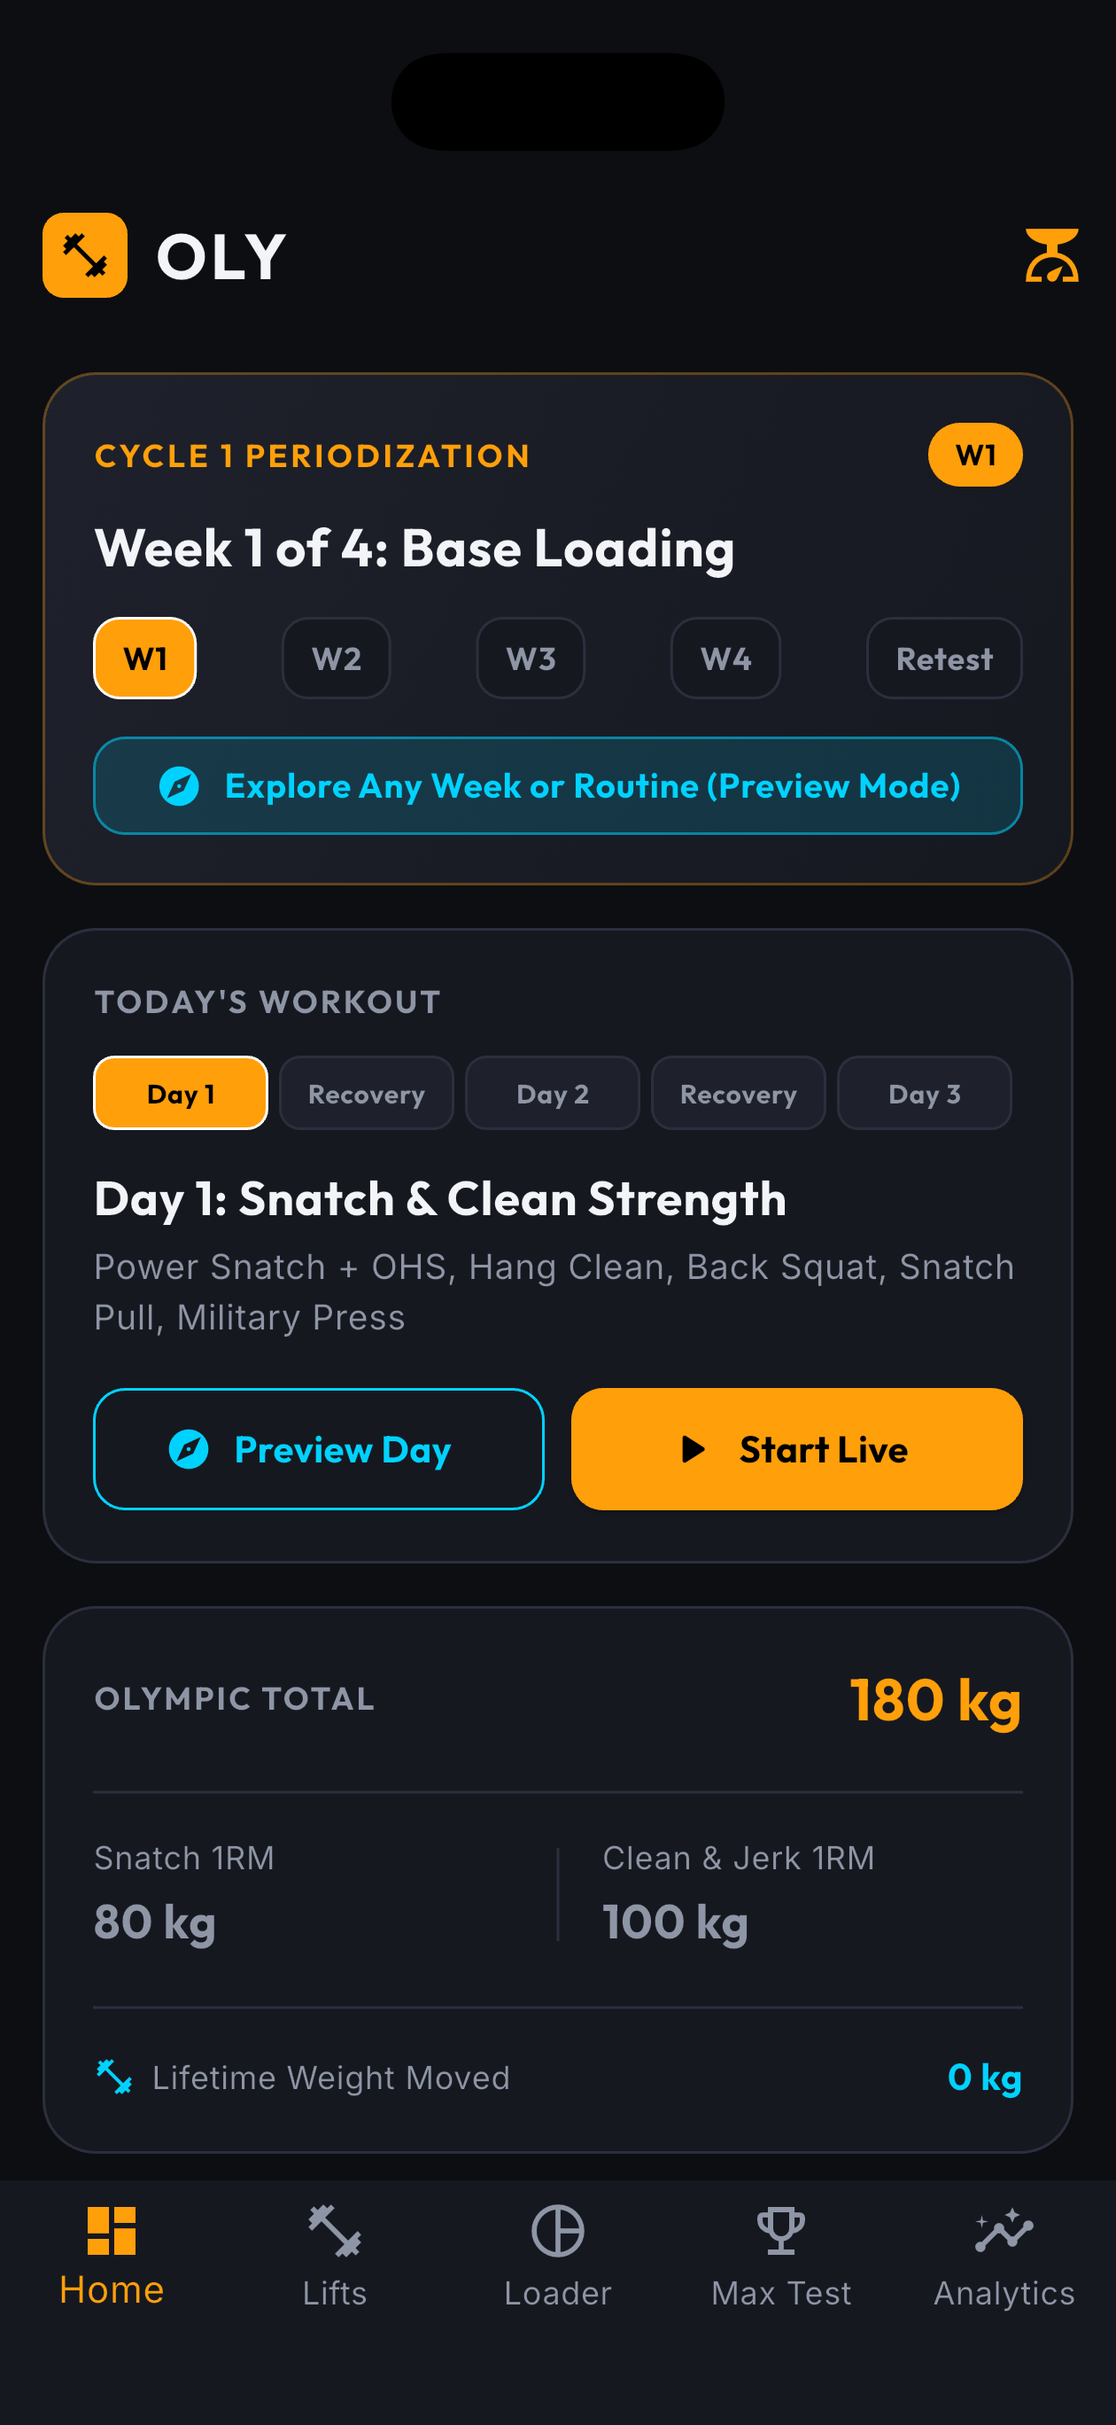
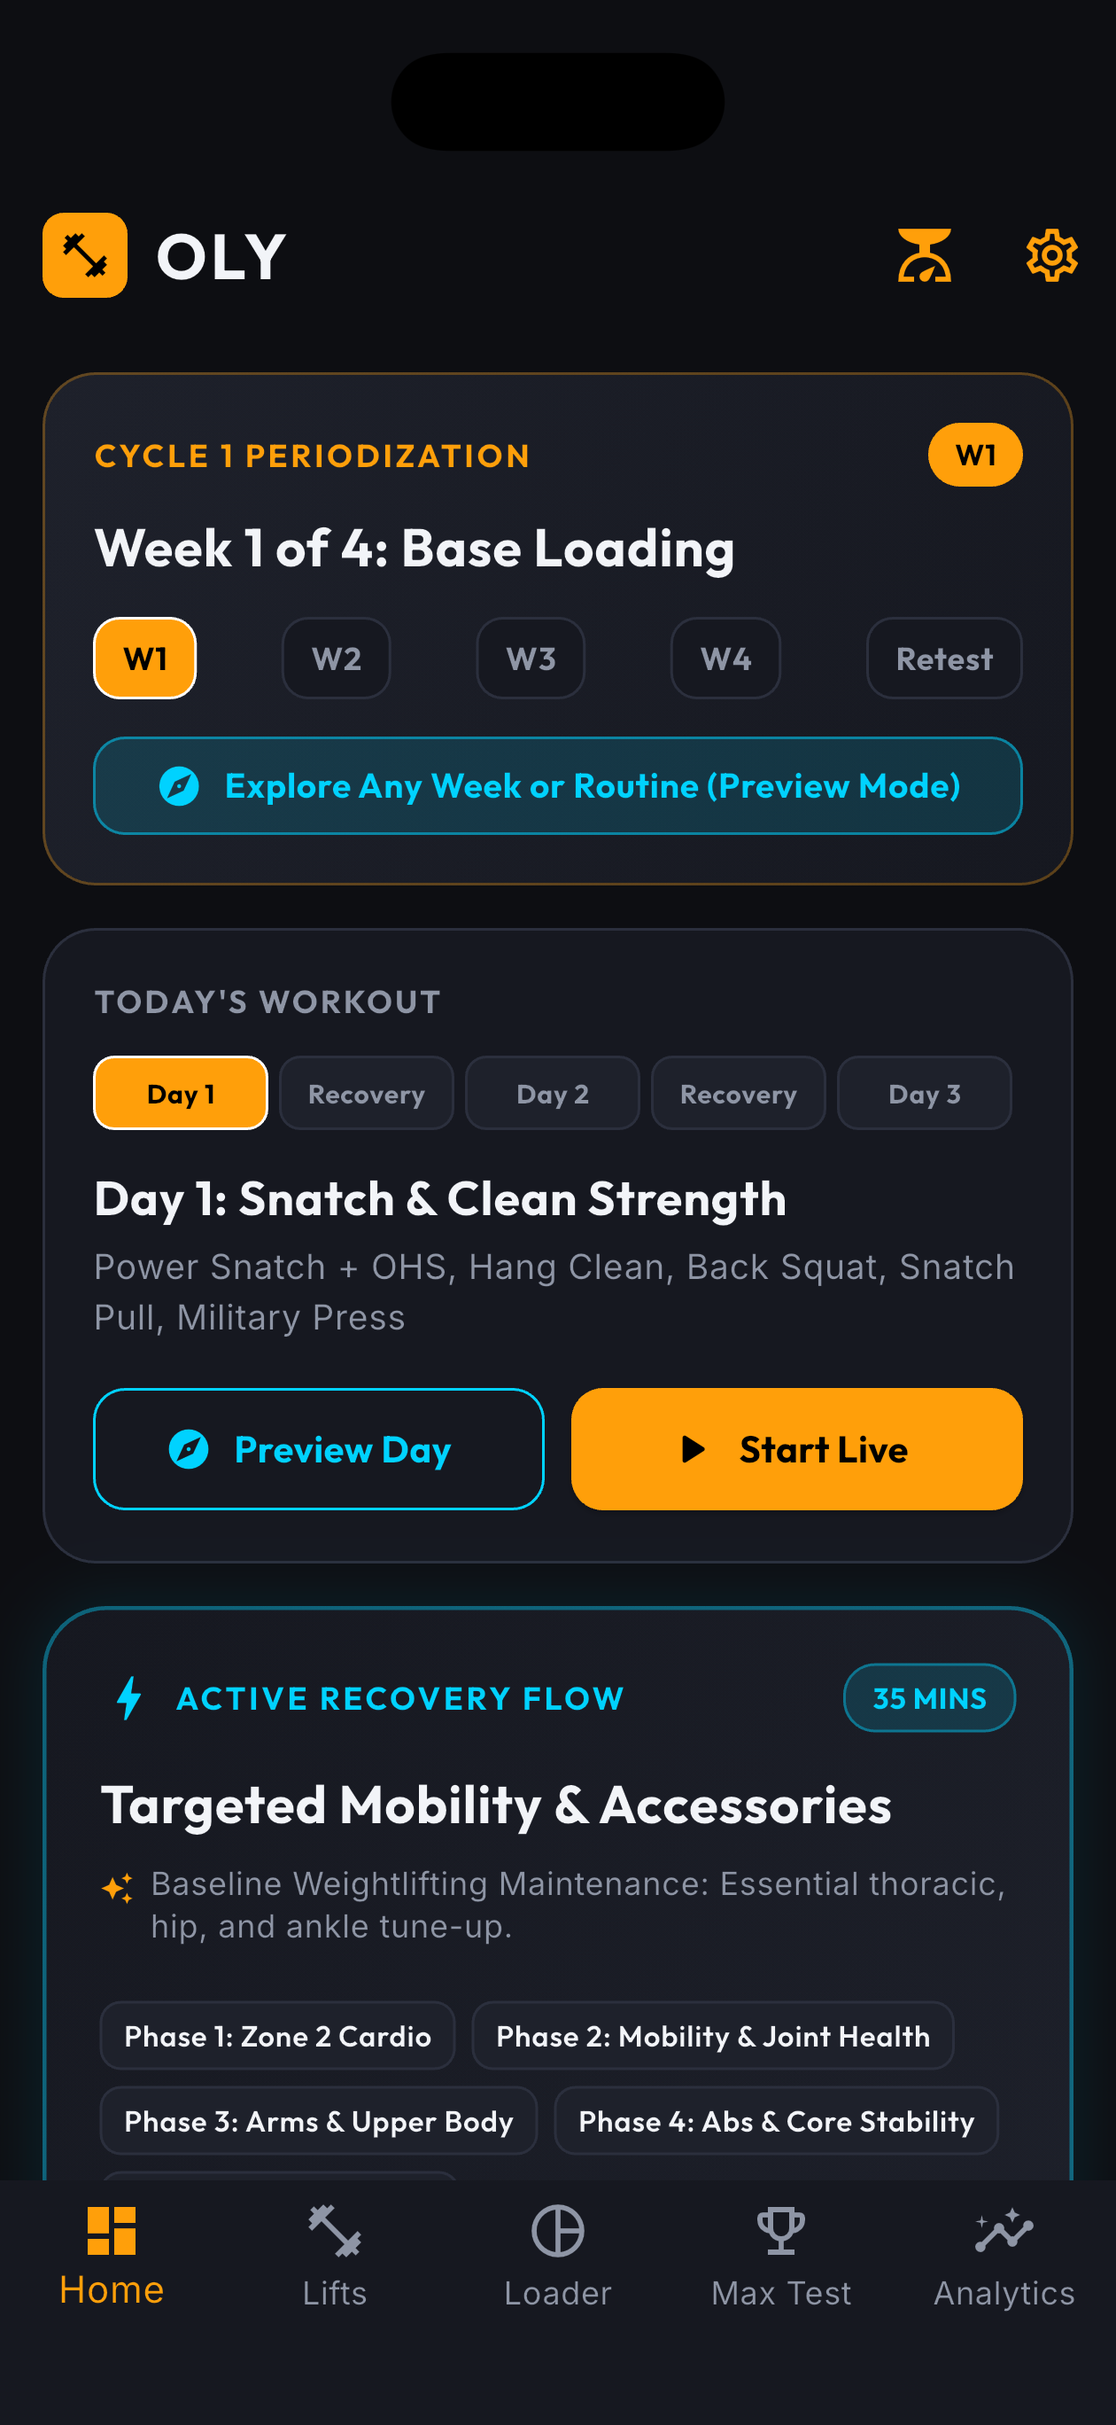
docs: update README with fresh simulator screenshots and accurate documentation

diff --git a/lib/main.dart b/lib/main.dart
@@ -7,13 +7,16 @@ import 'providers/settings_provider.dart';
 import 'services/notification_service.dart';
 import 'services/storage_service.dart';
 import 'theme/app_theme.dart';
+import 'models/program_model.dart';
+import 'services/recovery_engine_service.dart';
 import 'views/analytics_screen.dart';
 import 'views/dashboard_screen.dart';
 import 'views/lifts_screen.dart';
 import 'views/max_test_screen.dart';
 import 'views/plate_calculator_screen.dart';
-
+import 'views/recovery_session_screen.dart';
 import 'views/splash_screen.dart';
+import 'views/workout_session_screen.dart';
 
 void main() async {
   WidgetsFlutterBinding.ensureInitialized();
@@ -50,10 +53,27 @@ class OlyApp extends StatelessWidget {
         );
       },
       home: SplashScreen(
-        child: MainNavigationContainer(
-          initialIndex: const int.fromEnvironment('TAB', defaultValue: 0),
-        ),
+        child: _buildHomeScreen(),
       ),
+    );
+  }
+
+  Widget _buildHomeScreen() {
+    const screen = String.fromEnvironment('SCREEN');
+    if (screen == 'workout') {
+      return WorkoutSessionScreen(
+        dayTemplate: ProgramCycle.getBuiltInProgram().first,
+      );
+    } else if (screen == 'recovery') {
+      return RecoverySessionScreen(
+        routine: RecoveryEngineService.generateRoutine(
+          ratioAnalyses: [],
+          lastSession: null,
+        ),
+      );
+    }
+    return const MainNavigationContainer(
+      initialIndex: int.fromEnvironment('TAB', defaultValue: 0),
     );
   }
 }

diff --git a/README.md b/README.md
@@ -1,97 +1,175 @@
 # OLY — Olympic Weightlifting & Periodization Tracker
 
 <p align="center">
-  <img src="assets/icon/icon.jpg" width="140" alt="OLY App Icon" style="border-radius: 28px;" />
+  <img src="assets/icon/icon.jpg" width="140" alt="OLY App Icon" style="border-radius: 28px; box-shadow: 0 10px 30px rgba(0,0,0,0.5);" />
 </p>
 
 <p align="center">
-  <b>A modern, dark-mode Flutter application designed for Olympic weightlifting athletes, coaches, and strength enthusiasts.</b>
+  <b>A modern, high-contrast Flutter application designed for Olympic weightlifting athletes, coaches, and strength enthusiasts.</b>
+</p>
+
+<p align="center">
+  <img src="https://img.shields.io/badge/Flutter-3.x-02569B?logo=flutter&logoColor=white" alt="Flutter" />
+  <img src="https://img.shields.io/badge/Dart-3.x-0175C2?logo=dart&logoColor=white" alt="Dart" />
+  <img src="https://img.shields.io/badge/Platform-iOS%20%7C%20Android-4E8EF7" alt="Platform" />
+  <img src="https://img.shields.io/badge/Theme-Dark%20Obsidian-121214" alt="Theme" />
+  <img src="https://img.shields.io/badge/License-Proprietary-FF9E1B" alt="License" />
 </p>
 
 ---
 
 ## 🌟 Overview
 
-**OLY** is built specifically for Snatch, Clean & Jerk, and Squat strength progression. It combines dynamic periodization programming (`@ 65-70-75-70%`), interactive barbell bumper plate calculation, variation lift 1RM suggestions, guided warm-up routines, lifetime tonnage analytics, and a Week 5 1RM Retest protocol into a sleek, high-contrast dark interface.
+**OLY** is engineered specifically for the demands of Olympic weightlifting (Snatch, Clean & Jerk, and Squats). It integrates dynamic 4-Day and 5-Day periodization programming, real-time working percentage calculation (`65% → 70% → 75% → 70% → Retest`), movement video tutorials, an intelligent rest timer with lock-screen alerts, an IWF color-coded bumper plate calculator, Greg Everett / Catalyst Athletics 1RM variation ratios, an adaptive active recovery generator, and native data backup into a sleek, dark-mode mobile experience.
 
 ---
 
-## 🚀 Key Features
+## 📱 Visual Feature Tour
 
-### 🏋♂ 5-Step Periodized Program Sequence
-- **Structured Days**: `Day 1 (Heavy Snatch/Squat) → Active Recovery → Day 2 (Muscle Snatch/Block Clean) → Active Recovery → Day 3 (Hang Snatch/C&J/Front Squat)`.
-- **Dynamic Load Percentages**: Automatically calculates working set target weights based on cycle week:
-  - **Week 1**: Base Loading (65%)
-  - **Week 2**: Loading (70%)
-  - **Week 3**: Peak Loading (75%)
-  - **Week 4**: Deload & Prep (70%)
-  - **Week 5**: **1RM Retest Protocol**
-- **Automatic Week Rollover**: Completing Day 5 advances progress to `Week + 1, Day 1`.
-- **Manual Overrides**: Tap-to-override day and week selector pills directly on the Dashboard.
+| Home Dashboard | Live Workout Session |
+| :---: | :---: |
+| ![Home Dashboard](docs/screenshots/dashboard.png) | ![Live Workout Session](docs/screenshots/workout_session.png) |
+| *Cycle periodization, workout selector, and quick recovery trigger* | *Set logging, exercise video demos, barbell loader popup, and rest timer* |
 
-### 🧭 Routine Explorer & Preview Mode
-- Preview and practice any workout routine for any week without modifying your active cycle history or polluting analytics.
+| Active Recovery & Mobility | Lift Catalog & 1RM Ratios |
+| :---: | :---: |
+| ![Active Recovery](docs/screenshots/mobility_routine.png) | ![Lift Catalog](docs/screenshots/lifts.png) |
+| *12-drill mobility flow with video guides, form cues, and readiness score* | *1RM catalog, ratio balance analysis, and auto-calculated variation targets* |
 
-### ⚖ Visual IWF Barbell Bumper Plate Loader
-- Real-time rendering of IWF color-coded bumper plates:
+| Barbell Plate Loader | Volume & Tonnage Analytics |
+| :---: | :---: |
+| ![Barbell Plate Loader](docs/screenshots/plate_calculator.png) | ![Analytics](docs/screenshots/analytics.png) |
+| *IWF color-coded bumper plates, fractionals, and barbell specs* | *Lifetime tonnage (Metric Tonnes / Short Tons), sets, reps, and workout logs* |
+
+---
+
+## 🚀 Comprehensive Feature Breakdown
+
+### 🏋♂ 1. Structured Periodization Engine (4-Day & 5-Day Sequences)
+- **Periodized Wave Loading**: Automatically calculates target weights for every working set based on your 1RMs and current cycle week:
+  - **Week 1 (Base Loading)**: ~65% target intensity
+  - **Week 2 (Loading)**: ~70% target intensity
+  - **Week 3 (Peak Loading)**: ~75% target intensity
+  - **Week 4 (Deload & Priming)**: ~70% reduced volume
+  - **Week 5 (1RM Retest)**: Dedicated testing protocol with guided warmup ramps
+- **Program Flexibility**: Toggle between **4-Day Strength & Technique** and **5-Day Classical Sequence** in Settings.
+- **Preview & Exploration Mode**: Explore and review any past or future week/routine without modifying active cycle state or polluting analytics logs.
+
+### ⏱ 2. Live Workout Session Companion
+- **Set & Rep Tracking**: Interactive set completion pills with real-time weight overrides and rep adjustments.
+- **Movement Video Links**: Tap the video icon on any exercise card to instantly watch curated YouTube coaching tutorials for that exact movement.
+- **Quick Plate Calculator**: Tap the barbell icon on any exercise card to calculate exact plate loading for that specific exercise target weight.
+- **Exercise Substitution**: Easily swap accessories or primary movements on the fly using the built-in exercise catalog sheet.
+- **Post-Workout Diagnostics**: Rate session RPE (1–10) and tag joint strain areas (e.g., Shoulders, Knees, Lower Back) upon completion to adapt your next recovery routine.
+
+### ⏳ 3. Intelligent Rest Timer
+- **Quick Presets**: Fast 30s, 60s, 90s, 2m, 3m, and 5m rest duration presets.
+- **Micro-Adjustments**: Fine-tune timer on the fly with `-10s`, `-5s`, `-1s`, `+1s`, `+5s`, `+10s` step buttons.
+- **Audio & Haptic Alerts**: Multi-stage audio beeps and vibration feedback upon timer expiration.
+- **Lock-Screen Local Notifications**: Background notifications ensure you never miss rest expiration when your phone screen turns off or when switching apps.
+
+### 🧘♂ 4. Adaptive Active Recovery & Mobility Engine
+- **Targeted Routine Generation**: 12 structured drills across 4 dedicated phases:
+  - **Phase 1**: Zone 2 Aerobic Conditioning & Warmup
+  - **Phase 2**: Mobility & Joint Health Flow (Thoracic extension, Hip openers, Ankle dorsiflexion)
+  - **Phase 3**: Arms & Upper Body Hypertrophy
+  - **Phase 4**: Core & Grip Strength (Hanging leg raises, Ab rollouts, Farmer carries)
+- **Strain Adaptation**: Automatically prioritizes mobility drills targeting joints flagged during previous workout logs.
+- **Daily Readiness Scoring**: Log 5-star readiness assessments to calibrate daily intensity.
+
+### 💡 5. Catalyst Athletics Olympic 1RM Variation Ratios
+- **Automated Ratio Ratios**: Built-in benchmark targets derived from Greg Everett Olympic standards:
+  - **Hang Snatch**: 88% of Snatch
+  - **Power Snatch**: 82% of Snatch
+  - **Overhead Squat**: 110% of Snatch
+  - **Hang Clean**: 88% of Clean & Jerk
+  - **Power Clean**: 85% of Clean & Jerk
+  - **Block Clean**: 90% of Clean & Jerk
+  - **Front Squat**: 85% of Back Squat
+  - **Push Press**: 75% of Clean & Jerk
+- **One-Tap Suggestion Chips**: Auto-fill variation 1RMs calculated directly from your primary lifts.
+- **Ratio Balance Diagnostic**: Identifies whether technique, pulling power, or leg strength is your limiting factor.
+
+### ⚖ 6. Visual IWF Barbell Bumper Plate Loader
+- **Realistic Barbell Rendering**: Visually renders standard IWF colored bumper plates loaded on the sleeve:
   - 🔴 **25 kg / 45 lb** (Red)
   - 🔵 **20 kg / 35 lb** (Blue)
   - 🟡 **15 kg / 25 lb** (Yellow)
   - 🟢 **10 kg / 10 lb** (Green)
   - ⚪ **5 kg** (White Bumper)
-  - ⚪ **Fractionals**: 2.5kg, 2kg, 1.5kg, 1kg, 0.5kg
-- Customizable barbell weights (20kg Men's, 15kg Women's, 10kg Technique, 45lb Standard) and collar weights.
+  - ⚪ **Fractionals**: 2.5 kg, 2.0 kg, 1.5 kg, 1.0 kg, 0.5 kg
+- **Customizable Equipment**: Switch between Men's 20kg bar, Women's 15kg bar, 10kg Technique bar, 45lb bar, and collar configurations (2.5kg competition collars or collarless).
 
-### 💡 Smart 1RM Variation Ratios & Reference Chart
-- Built-in Olympic variation ratios based on Greg Everett / Catalyst Athletics benchmarks:
-  - **Hang Snatch**: 88% of Snatch
-  - **Power Snatch**: 82% of Snatch
-  - **Front Squat**: 85% of Back Squat
-  - **Hang Clean**: 88% of C&J
-  - **Block Clean**: 90% of C&J
-- **Auto 1RM Suggestions**: Smart suggestion chips auto-calculate target 1RMs with one-tap fill.
-- **Olympic Ratio Standards Reference Chart**: Interactive sheet displaying full variation benchmarks and ideal 1RM targets.
+### 📈 7. Lifetime Volume & Tonnage Analytics
+- **Total Workload Calculation**: Multiplies `weight × reps` across all completed sets.
+- **Metric & Imperial Support**: View total workload in **Metric Tonnes** ($1{,}000\text{ kg}$) or **US Short Tons** ($2{,}000\text{ lbs}$).
+- **Historical Logs**: Comprehensive session breakdown with dates, RPE ratings, joint strain tags, and completed exercise sets.
 
-### 📈 Lifetime Tonnage & Weight Moved Analytics
-- Calculates total volume (`weight * reps`) for every set, exercise, and workout session.
-- Displays total lifetime weight moved in **Metric Tonnes** or **US Short Tons**, total sessions, sets, and reps.
-
-### 🧘♂ Guided 5-Step Warm-Up Companion
-- Interactive modal sheet with cardio timer, thoracic foam rolling pass counter, joint DROMs checkboxes, static stretch holds, and barbell technique prep.
+### 💾 8. Native Backup, Export & Import
+- **JSON Full Backup**: One-tap export and import of all user preferences, 1RMs, cycle history, and workout logs.
+- **CSV Log Export**: Export human-readable spreadsheet-compatible workout logs for external analysis or coach review.
 
 ---
 
-## 📱 App Screenshots
+## ⚠ Known Issues & Platform Considerations
 
-| Splash Screen | Home Dashboard |
-| :---: | :---: |
-| ![Splash Screen](docs/screenshots/splash.png) | ![Dashboard](docs/screenshots/dashboard.png) |
-
-| Lift Catalog & Maxes | Barbell Plate Loader |
-| :---: | :---: |
-| ![Lifts](docs/screenshots/lifts.png) | ![Plate Loader](docs/screenshots/plate_calculator.png) |
-
-| Total Weight Moved Analytics |
-| :---: |
-| ![Analytics](docs/screenshots/analytics.png) |
+### iOS Background Audio & Lock-Screen Notifications
+- **Behavior**: On iOS, when the device is locked or the application is in the background, Apple's `AVAudioEngine` / `caulk` audio pipeline is placed into a suspended state by iOS CoreAudio. Attempting to trigger arbitrary in-app audio synthesizer playback during a resume race condition can lead to an iOS watchdog termination.
+- **Implementation Design**: 
+  - Rest timer expiration when the app is in the background is delivered reliably via native iOS `UNUserNotificationCenter` local notifications (`DarwinNotificationDetails` with system alert sound).
+  - In-app audio player playback and tactile haptic sequences are reserved for active foreground use. If you return to the app after the timer has finished in the background, the UI updates gracefully without attempting an unsafe late audio playback.
 
 ---
 
-## 🛠 Architecture & Technologies
+## 🛠 Architecture & Tech Stack
 
-- **Core Framework**: [Flutter](https://flutter.dev) (Dart 3.x)
-- **State Management**: `Provider`
-- **UI Design System**: Dark Obsidian & Neon Amber (`AppTheme`), `GoogleFonts` (Outfit & Inter)
-- **Persistence**: `SharedPreferences` via `StorageService`
-- **Native Launcher & Splash**: `flutter_launcher_icons` & `flutter_native_splash`
+```
+lib/
+├── main.dart                      # Application root & multi-provider wiring
+├── theme/
+│   └── app_theme.dart             # Dark Obsidian (#121214) & Neon Amber (#FF9E1B) design system
+├── models/
+│   ├── lift_model.dart            # Lift definitions & Olympic variation ratio math
+│   ├── program_model.dart         # 4-Day & 5-Day periodization templates & week loaders
+│   ├── workout_session.dart       # Workout session logs, RPE, and strain models
+│   ├── mobility_exercise_model.dart # 12 active recovery exercises with cues & video links
+│   └── plate_calc.dart            # Barbell sleeve greedy plate allocation algorithm
+├── providers/
+│   ├── lift_provider.dart         # 1RM catalog & ratio balance calculations
+│   ├── program_provider.dart      # Periodization cycle progression & week advancement
+│   ├── recovery_provider.dart     # Recovery routine generation & readiness tracking
+│   └── settings_provider.dart     # Units (kg/lbs), bar specs, audio/haptic toggles
+├── services/
+│   ├── storage_service.dart       # Local persistence, JSON/CSV backup & restore
+│   ├── notification_service.dart  # Timezone-aware local notifications & foreground audio
+│   ├── recovery_engine_service.dart # Adaptive mobility routine generator
+│   └── warmup_engine_service.dart # Dynamic 5-step warmup generator
+├── views/
+│   ├── splash_screen.dart         # Animated high-contrast launch splash
+│   ├── dashboard_screen.dart      # Main hub with cycle status & workout launchers
+│   ├── workout_session_screen.dart # Live workout tracking & exercise drawer
+│   ├── recovery_session_screen.dart # Interactive 4-phase mobility routine
+│   ├── lifts_screen.dart          # 1RM catalog & Olympic variation standards
+│   ├── plate_calculator_screen.dart # Barbell plate visualizer & specs
+│   ├── max_test_screen.dart       # Week 5 1RM retest protocol
+│   └── analytics_screen.dart      # Total tonnage, workout history, & ratio charts
+└── widgets/
+    ├── barbell_visualizer.dart    # CustomPainted IWF bumper plate rendering
+    ├── rest_timer_widget.dart     # Timer dial, micro-steppers, and alert dispatcher
+    ├── video_player_card.dart     # YouTube thumbnail preview & coaching link launcher
+    ├── warm_up_modal.dart         # 5-step warmup routine modal sheet
+    └── ratio_reference_sheet.dart # Catalyst Athletics ratio benchmarks table
+```
 
 ---
 
 ## 💻 Getting Started
 
 ### Prerequisites
-- Flutter SDK (v3.13.0 or higher)
-- Xcode (for iOS builds) / Android Studio (for Android builds)
+- **Flutter SDK**: `^3.13.0` or later
+- **Dart SDK**: `^3.0.0` or later
+- **Xcode**: 15+ (for iOS development & simulator testing)
+- **CocoaPods**: Latest
 
 ### Installation & Run
 
@@ -101,23 +179,48 @@
    cd oly
    ```
 
-2. **Install dependencies**:
+2. **Install Flutter dependencies**:
    ```bash
    flutter pub get
    ```
 
-3. **Run unit tests**:
+3. **Run code analysis & automated tests**:
    ```bash
+   flutter analyze
    flutter test
    ```
 
-4. **Launch on connected device or simulator**:
+4. **Launch on connected device or iOS Simulator**:
    ```bash
-   flutter run
+   # Launch on iOS Simulator
+   flutter run -d iPhone
+
+   # Launch directly to a specific tab for testing (0=Home, 1=Lifts, 2=Loader, 3=MaxTest, 4=Analytics)
+   flutter run --dart-define=TAB=1
+
+   # Launch directly into a workout session
+   flutter run --dart-define=SCREEN=workout
    ```
+
+---
+
+## 📄 Testing
+
+Run the full suite of unit, widget, and domain engine tests:
+```bash
+flutter test
+```
+
+Test coverage includes:
+- `feature_audit_test.dart`: Session serialization, RPE, joint strain tags, recovery adaptation, and JSON/CSV backup.
+- `plate_calculator_test.dart`: Greedy plate allocation algorithm across kg/lb configurations.
+- `percentage_calculator_test.dart`: Working weight calculation and rounding rules across periodization weeks.
+- `recovery_engine_test.dart`: Adaptive mobility exercise selection and strain focus algorithms.
+- `warmup_engine_test.dart`: 5-step warmup routine generation.
 
 ---
 
 ## 📝 License
 
-Designed and developed for Olympic weightlifting athletes.
+Developed for Olympic weightlifters, coaches, and strength athletes.
+Copyright © 2026 Lamont Labs. All rights reserved.
